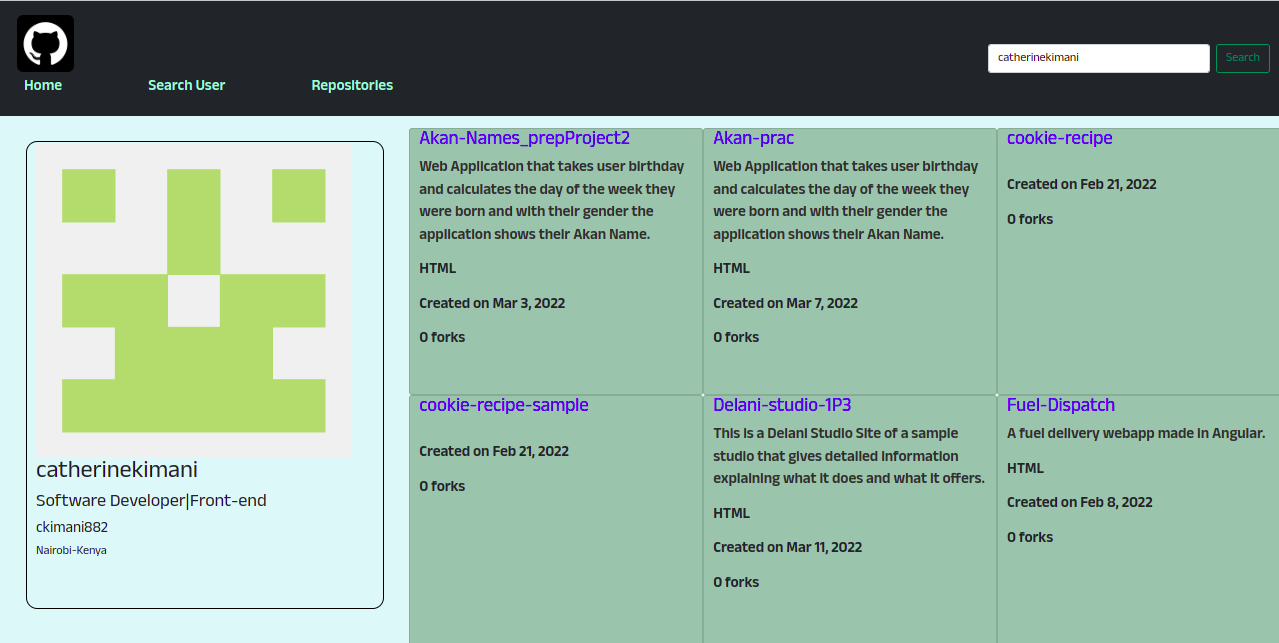
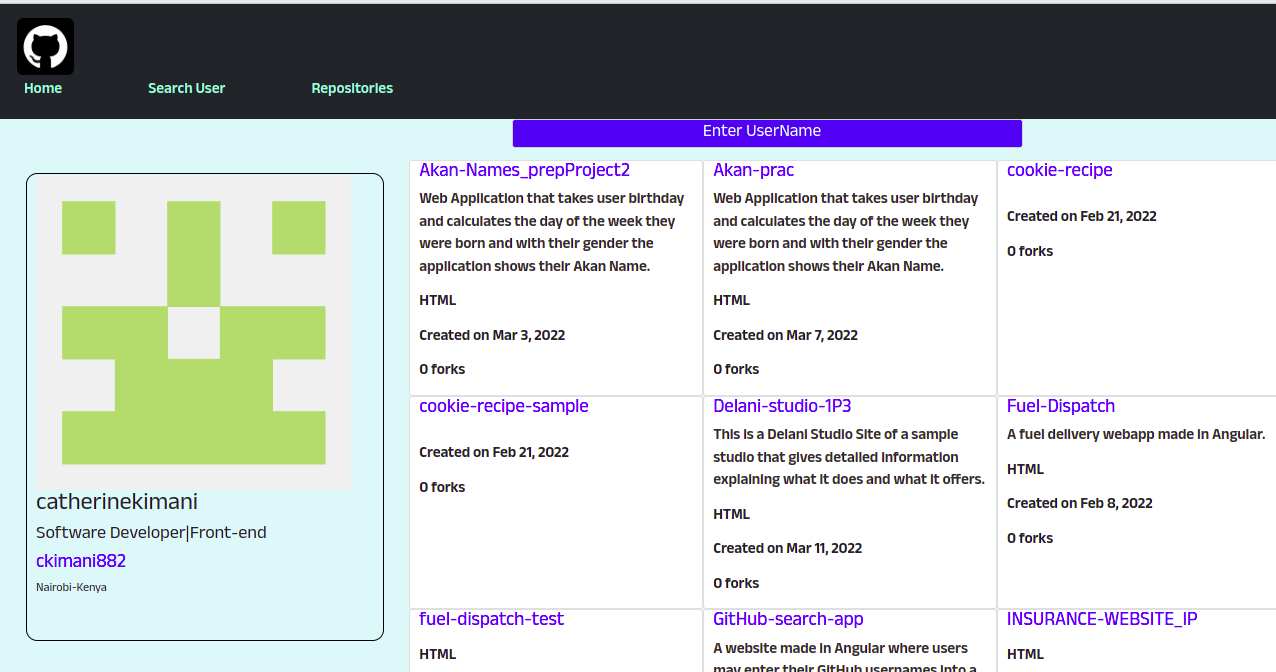
final changes

diff --git a/src/app/users/users.component.css b/src/app/users/users.component.css
@@ -28,7 +28,14 @@ h5 {
 }
 
 input{
-    background-color: aqua;
+    background-color: rgb(28, 84, 238);
     width: 40%;
     margin-left: 40%;
+}
+
+::placeholder{
+    color: white;
+    font-size: 23px;
+    text-align: center;
+    
 }
